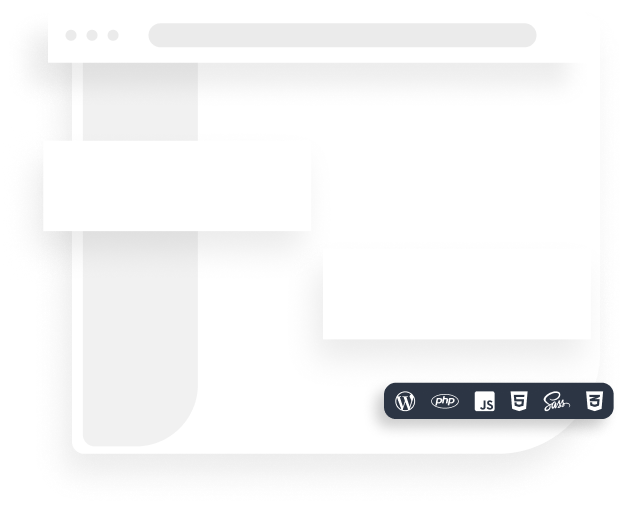
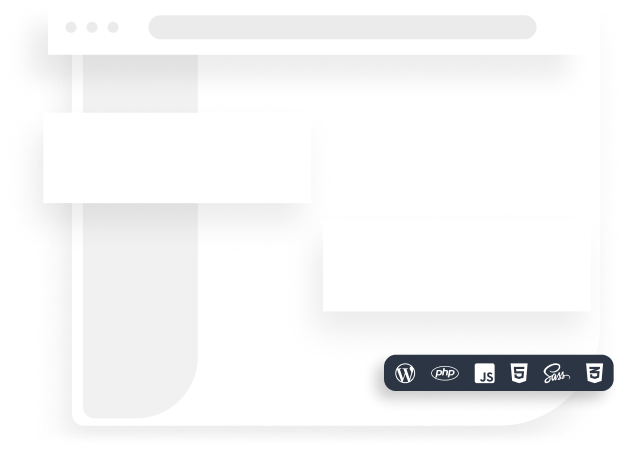
updated block our works

Changed region(s): [[0.5748, 0.7467, 0.9984, 0.9022]]

diff --git a/index.html b/index.html
@@ -357,7 +357,9 @@
                       </li>
                     </ul>
                   </div>
-                  <div class="pills-right-part"><img src="images/web-development-nav.png" alt="web-development"></div>
+                  <div class="pills-right-part web-development-img">
+                    <img src="images/web-development-nav.jpg" alt="web-development">
+                  </div>
                 </div>
               </div>
               <div class="tab-pane fade" id="pills-mobile-development" role="tabpanel" aria-labelledby="pills-mobile-development-tab">Lorem ipsum dolor sit amet, consectetur adipisicing elit. Soluta fuga, alias eligendi accusamus quam atque, nulla maxime dignissimos labore ullam explicabo consequuntur architecto modi fugiat repellat aperiam ad, vitae quas.</div>

diff --git a/css/style.css b/css/style.css
@@ -564,3 +564,22 @@ margin: 0;
 .pills-right-part {
   width: 60%;
 }
+.web-development-img {
+  position: relative;
+}
+.web-development-img img {
+  display: block;
+  position: relative;
+  z-index: 3;
+}
+.web-development-img:before {
+  content: '';
+  position: absolute;
+  background: url(../images/DotsBG.png);
+  width: 149px;
+  height: 149px;
+  top: -30px;
+  right: 110px;
+  display: block;
+  z-index: 0;
+}
